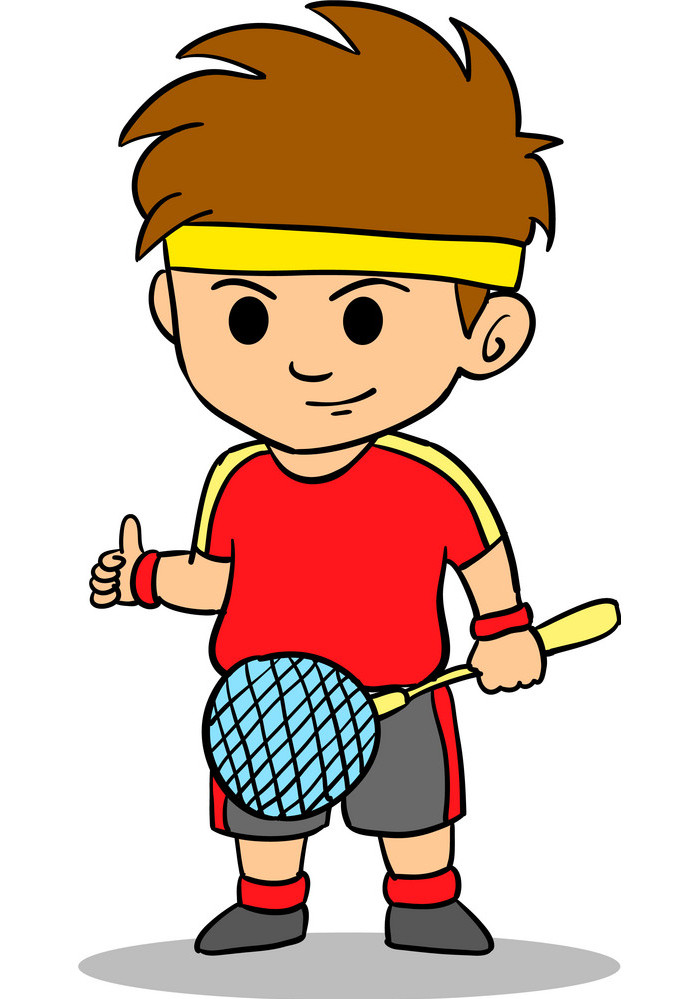
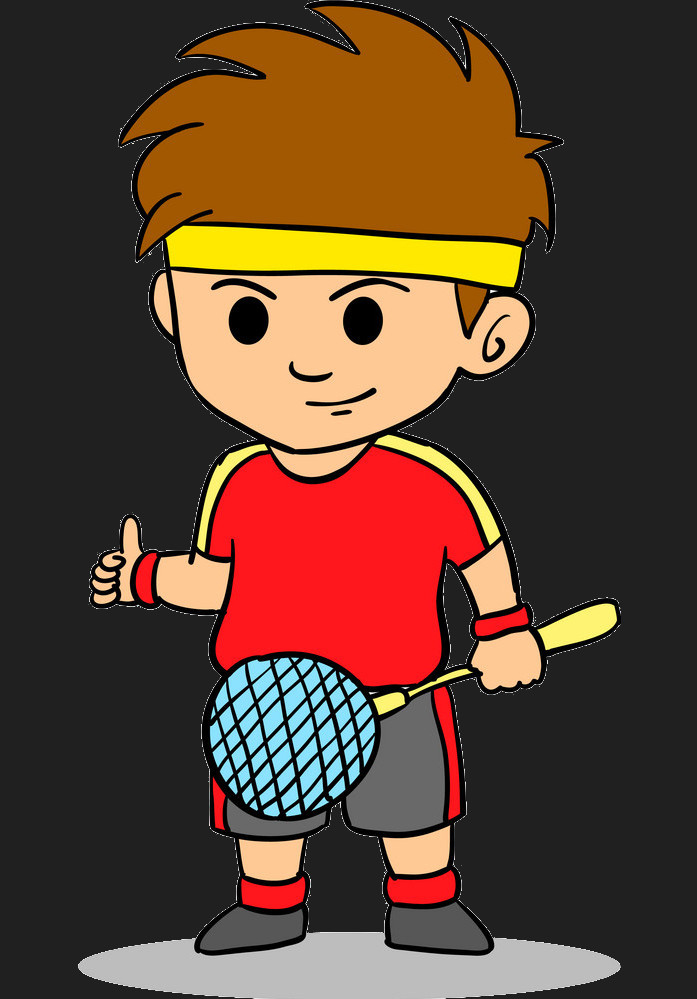
commit

diff --git a/public/assets/css/style.css b/public/assets/css/style.css
@@ -56,6 +56,24 @@ h1 {
     margin: 1.5rem;
 }
 
+
+.card1 {
+    background: #feb81c;
+}
+.card2 {
+    background: #c62b29;
+}
+.card3 {
+    background: #49a790;
+}
+.card4 {
+    background: #1d5ea0;
+}
+
+
+
+
+
 .card h2 {
     text-align: center;
     font-family: 'retro', sans-serif;
@@ -269,7 +287,7 @@ table{
 }
 
 .btn-yellow{
-    background-color: #feb81c;
+    background-color: #ff0079;
 }
 
 .btn-dark{

diff --git a/src/Controller/HomeController.php b/src/Controller/HomeController.php
@@ -18,15 +18,15 @@ class HomeController extends AbstractController
 {
 
     private $class = [
-        ['id' => 1, 'name' => 'Les Caïds', 'picture' => '/assets/images/caid.jpeg',
+        ['id' => 1, 'name' => 'Les Caïds', 'picture' => '/assets/images/caid.png',
             'description' => 'Mi-ours, mi-scorpion et re-mi-ours derrière', 'bonus' => 'Force : + 2',
             'malus' => 'Intelligence : -20'],
         ['id' => 2, 'name' => 'Les Intellos', 'picture' => '/assets/images/intello.png',
             'description' => 'Chouchou de la maitresse', 'bonus' => 'Dextérité : + 2', 'malus' => 'Courage : -15'],
-        ['id' => 3, 'name' => 'Les Sportifs', 'picture' => '/assets/images/sportif.jpg',
+        ['id' => 3, 'name' => 'Les Sportifs', 'picture' => '/assets/images/sportif.png',
             'description' => 'Foooooot , du foot, du foot , du foot !', 'bonus' => 'déplacement : + 1',
             'malus' => 'Micro pénis'],
-        ['id' => 4, 'name' => 'Les Végans', 'picture' => '/assets/images/vegan.jpg',
+        ['id' => 4, 'name' => 'Les Végans', 'picture' => '/assets/images/vegan.png',
             'description' => 'Je suis pas gros. je suis jovial et épanoui !', 'bonus' => 'Santé : + 20',
             'malus' => 'Charisme : -50']
     ];
